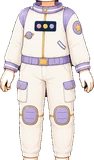
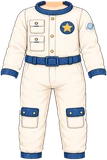
꾸미기: 남아 우주복 탑재 — 우주복이 남녀 공용이 됐다 (#674)
사용자 원화(543×897)를 베이스 v7 남아 몸에 맞춰 1024 캔버스에 올렸다.

원화는 해적 남아 것과 같이 **알파에 옷만** 담겨 있었다 — RGB 엔 손·목·발목
살까지 다 그려져 있지만 그 자리의 알파가 0 이다. 그래서 색으로 옷을 골라내는
과정이 아예 필요 없었다(우주복 여아 때는 옷도 베이스 속옷도 흰색이라
'살색 자리에서만 색차를 본다'는 규칙까지 만들어야 했다).

맞추기가 까다로웠던 건 비율이다. 원화의 몸이 베이스 v7 보다 팔다리가 길고
가늘어서 한 배율로는 안 맞았다.
  · 가슴·허리 폭으로 맞추면(0.62) 바지가 발등을 덮는다
  · 키로 맞추면(0.55) 옷이 몸보다 좁아 어깨·옆구리가 옷 밖으로 나온다
그래서 가로 0.62 · 세로 0.555 로 따로 줬다(세로 11% 눌림). 베이스가 통통한
치비라 눌린 쪽이 오히려 몸에 맞는다.

탑재값 — 깃 위끝 y400 · 상자 (349,398)-(676,888)
  · 소매부리 y638 — 손목 y625 바로 아래 (손이 소매 밖으로 나온다)
  · 바지밑단 y888 — 발목 y885 바로 아래 (맨발이 보인다, 여아판과 같은 규칙)
  · 옷이 반드시 덮어야 할 베이스 픽셀 중 안 덮인 곳 0.8%
    (남은 건 팔다리 윤곽선 1~2px — 화면 크기에서 안 보인다)
  · 깃이 머리 장 y403~405 를 170px 덮는데 그 자리는 턱이 아니라 목(폭 58~62)이다.
    상의는 z35 로 베이스(z20) 위에 그려지므로 깃이 목을 감싸는 게 맞다.

카탈로그 — top_space 에서 forGender:"girl" 을 떼고 남녀 그림을 나눠 달았다
(해적 옷과 같은 img/imgGirl · thumb/thumbGirl 짜임새). 아이템 id 는 그대로라
이미 가진 아이의 보유 기록은 안 바뀐다. 여아 썸네일은 top_space-girl.webp 로
옮기고 기본 이름은 남아 것이 쓴다.

원본은 art-src/space-boy-src.webp 에 webp q92 로 보관(CLAUDE.md 5) ·
README 표에 한 줄 추가.

검증
  · AvatarViewer 로 남아·여아 각각 렌더 — 남아는 space-suit-boy, 여아는
    space-suit-girl 을 집는다. 그림 13개 전부 로드, 페이지 에러 0건
  · vite build 통과

Claude-Session: https://claude.ai/code/session_018maNuYqDfFyRSe9uKpZhPR

diff --git a/src/data/avatarEquipment.js b/src/data/avatarEquipment.js
@@ -192,7 +192,18 @@ export const AVATAR_CATALOG = [
   { id: "top_sky",        slot: "top",   label: "하늘 나들이 옷", emoji: "☁", price:DECOR_PRICE.rare, rarity: "rare", theme: "picnic", forGender: "girl", coversBottom: true, img: "assets/avatar/top/sky-outing-girl.webp", thumb: "assets/avatar/thumb/top_sky.webp" },
   /* 우주복 — 옷이 흰색이라 '베이스와 색이 다른 픽셀' 규칙만으로는 안 떼어졌다.
      베이스 속옷도 희고 살색과도 가까워서다. 그래서 '베이스가 살색인 자리에서만 색차를 본다'로
-     바꿔서 떼어냈다(art-src/README 참고). 팔·다리까지 다 덮는 한 벌이라 상의 슬롯 하나. */
+     바꿔서 떼어냈다(art-src/README 참고). 팔·다리까지 다 덮는 한 벌이라 상의 슬롯 하나.
+     [2026-09-25] 남아 원화가 들어와 남녀 공용이 됐다 (사파리·해적 옷에 이어 세 번째).
+       남아: 크림 우주복 + 남색 깃·벨트·소맷부리 + 금단추 + 별 패치 · 여아: 연보라 배색
+     남아 원화도 해적 옷과 같이 **알파에 옷만 담겨 있어** 색으로 옷을 골라낼 필요가 없었다
+     (RGB 엔 손·목·발목 살까지 다 있지만 그 자리의 알파가 0 이다).
+     다만 원화의 몸이 베이스 v7 보다 팔다리가 길고 가늘어 한 배율로는 안 맞았다 —
+     가슴·허리 폭으로 맞추면(0.62) 바지가 발등을 덮고, 키로 맞추면(0.55) 옷이 몸보다 좁았다.
+     그래서 가로 0.62 · 세로 0.555 로 따로 줬다(세로 11% 눌림). 베이스가 통통한 치비라
+     눌린 쪽이 오히려 몸에 맞는다. 깃 위끝 y400 → 탑재 상자 (349,398)-(676,888).
+     실측: 소매부리 y638(손목 y625 바로 아래) · 바지밑단 y888(발목 y885 바로 아래, 맨발 노출).
+     ※ 깃이 머리 장(y403~405)을 170px 덮는데 그 자리는 턱이 아니라 목(폭 58~62)이라 맞다.
+       상의는 z35 로 베이스(z20) 위에 그려지므로 깃이 목을 감싼다. */
   /* 해적 옷 — 이 원화도 '옷만 오려 낸 그림'이라 상체를 눈으로 맞췄다(하늘 나들이 옷과 같은 방식).
      긴소매라 소맷부리가 손목에 닿는 배율을 골랐다 — 0.72는 팔뚝이 남고 0.76부터는 손을 덮는다.
      배율 0.74 · 깃 위끝 y372(기본 반팔티 깃과 같은 자리) → 탑재 상자 (350,372)-(674,754). */
@@ -203,7 +214,7 @@ export const AVATAR_CATALOG = [
      (머리끝·발끝 → 배율 0.59329), 같은 변환을 알파에 담긴 옷에 그대로 적용했다.
      색으로 옷을 골라낼 필요가 없어서 제일 깔끔하다. 탑재 상자 (358,397)-(670,763). */
   { id: "top_pirate",     slot: "top",   label: "해적 옷",     emoji: "⚓", price:DECOR_PRICE.epic, rarity: "epic", theme: "pirate", coversBottom: true, img: "assets/avatar/top/pirate-outfit-boy.webp", imgGirl: "assets/avatar/top/pirate-outfit-girl.webp", thumb: "assets/avatar/thumb/top_pirate.webp", thumbGirl: "assets/avatar/thumb/top_pirate-girl.webp" },
-  { id: "top_space",      slot: "top",   label: "우주복",       emoji: "🚀", price:DECOR_PRICE.epic, rarity: "epic", theme: "space",  forGender: "girl", coversBottom: true, img: "assets/avatar/top/space-suit-girl.webp",    thumb: "assets/avatar/thumb/top_space.webp" },
+  { id: "top_space",      slot: "top",   label: "우주복",       emoji: "🚀", price:DECOR_PRICE.epic, rarity: "epic", theme: "space",  coversBottom: true, img: "assets/avatar/top/space-suit-boy.webp", imgGirl: "assets/avatar/top/space-suit-girl.webp", thumb: "assets/avatar/thumb/top_space.webp", thumbGirl: "assets/avatar/thumb/top_space-girl.webp" },
 
 ];
 

diff --git a/art-src/README.md b/art-src/README.md
@@ -290,6 +290,7 @@ getBoundingClientRect로 재서 정한다. 2026-08-05 점검에서 이 기준을
 | bottom-denim-shorts.webp | 데님 반바지 원화 (밑단 롤업) | avatar/bottom/denim-shorts.webp |
 | sky-girl-src.webp | **하늘 나들이 옷 원화 여아 (사용자 원화 2026-08-20)** — 860×1829 캔버스에 **옷만 오려 낸 그림**(타이츠 없는 판). 크림 블라우스 + 파란 리본 + 별·물방울 무늬 하늘색 스캘럽 치마. 알파 상자 (206,707)-(625,1219) | avatar/top/sky-outing-girl.webp |
 | sky-girl-tights-src.webp | 위 옷의 **타이츠 있는 판** (알파 상자 (206,707)-(625,1582)). **안 썼다** — 아래 '옷만 오려 낸 원화' 절 참고. 타이츠 아이템을 따로 만들 때 다시 쓸 수 있어 남겨 둔다 | (미탑재) |
+| space-boy-src.webp | **우주복 원화 남아 (사용자 원화 2026-09-25)** — 543×897 캔버스에 **알파에 옷만** 담긴 그림(RGB 엔 손·목·발목 살까지 있지만 그 자리 알파는 0 — 해적 남아 원화와 같은 방식). 크림 우주복 + 남색 깃·벨트·소맷부리 + 금단추 + 별·행성 패치. 알파 상자 (10,10)-(533,887). 원화 몸이 베이스 v7 보다 팔다리가 길고 가늘어 **가로 0.62 · 세로 0.555 로 따로** 줬다(세로 11% 눌림) · 깃 위끝 y400 → 탑재 상자 (349,398)-(676,888) | avatar/top/space-suit-boy.webp |
 | space-girl-src.webp | **우주복 원화 여아 (사용자 원화 2026-08-19)** — 베이스 v7 여아가 **입고 있는 전신 그림**(897×1753, 배경 검정). 크림색 우주복 + 연보라 어깨·벨트·무릎보호대 + 금색 지퍼·별 패치. 팔다리까지 덮는 한 벌 | avatar/top/space-suit-girl.webp |
 | picnic-girl-src.webp | **딸기 소풍 옷 원화 여아 (사용자 원화 2026-08-19)** — 베이스 v7 여아가 **입고 있는 전신 그림**(859×1832, 배경 검정). 분홍 깅엄 카디건 + 크림 블라우스 + 딸기 자수 산호색 반바지 | avatar/top/picnic-outfit-girl.webp |
 | magic-girl-src.webp | **별빛 마법사 옷 원화 여아 (사용자 원화 2026-08-19)** — 베이스 v7 여아가 **입고 있는 전신 그림**(854×1842, 배경 검정). 보라 케이프 + 금별 브로치·벨트 + 지그재그 밑단 별무늬 치마. 예전 '별빛 마법사 주름치마'(magic-skirt-navy-src)를 대체해서 구버전 원본·배포본은 지웠다 | avatar/top/magic-outfit-girl.webp |
